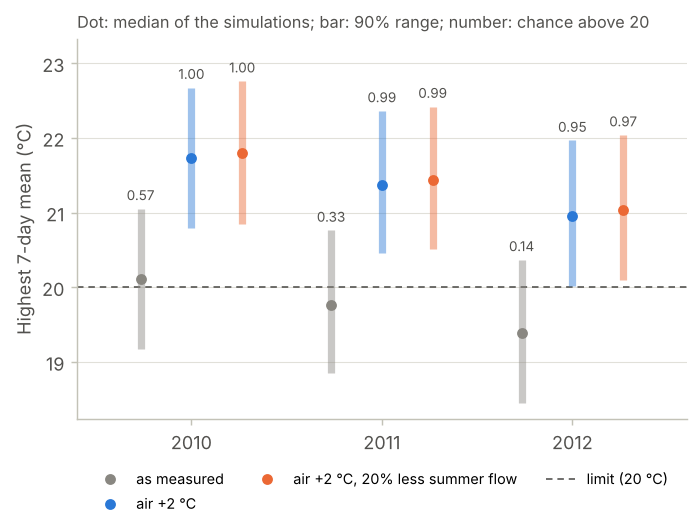
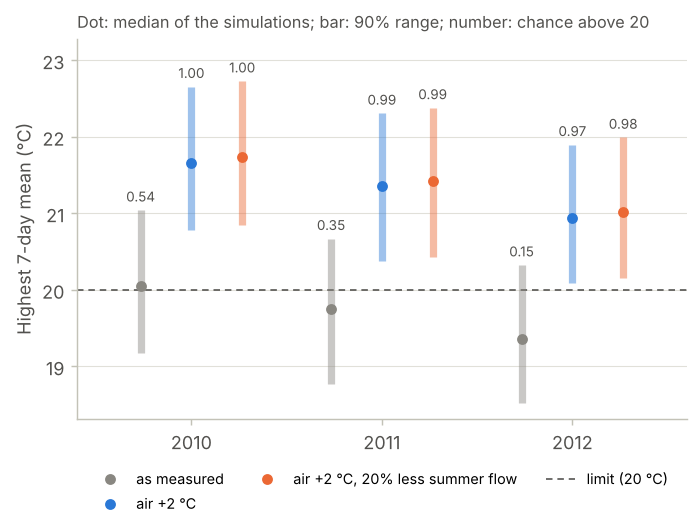
Example 08 rerun on 0.5.1: update figures and quoted numbers
Claude-Session: https://claude.ai/code/session_011cntwns3xnAFTLc6o2maxn

diff --git a/examples/08_climate/README.md b/examples/08_climate/README.md
@@ -78,11 +78,11 @@ The change, simulation by simulation (scenario minus baseline):
 
 | Scenario | Change in | Median | 90% range |
 |---|---|---|---|
-| air +2 °C | summer (Jun–Aug) mean | +1.52 °C | +1.49 to +1.56 °C |
-| air +2 °C | winter (Dec–Feb) mean | +1.05 °C | +0.99 to +1.10 °C |
-| air +2 °C | whole-year mean | +1.36 °C | +1.32 to +1.40 °C |
-| air +2 °C, 20% less summer flow | summer (Jun–Aug) mean | +1.58 °C | +1.54 to +1.63 °C |
-| air +2 °C, 20% less summer flow | winter (Dec–Feb) mean | +1.05 °C | +0.99 to +1.10 °C |
+| air +2 °C | summer (Jun–Aug) mean | +1.52 °C | +1.48 to +1.56 °C |
+| air +2 °C | winter (Dec–Feb) mean | +1.02 °C | +0.96 to +1.08 °C |
+| air +2 °C | whole-year mean | +1.35 °C | +1.31 to +1.40 °C |
+| air +2 °C, 20% less summer flow | summer (Jun–Aug) mean | +1.58 °C | +1.54 to +1.62 °C |
+| air +2 °C, 20% less summer flow | winter (Dec–Feb) mean | +1.02 °C | +0.96 to +1.08 °C |
 
 ![Monthly mean change in water temperature for both scenarios](figures/monthly_change.png)
 
@@ -113,9 +113,9 @@ all three runs.
 
 | Year | P(7-day mean > 20 °C): as measured | air +2 °C | air +2 °C, less summer flow | Days above 18 °C: as measured | air +2 °C | air +2 °C, less summer flow |
 |---|---|---|---|---|---|---|
-| 2010 | 0.57 | 1.00 | 1.00 | 30 (22 to 38) | 50 (42 to 59) | 51 (43 to 60) |
-| 2011 | 0.33 | 0.99 | 0.99 | 18 (11 to 27) | 41 (33 to 49) | 41 (33 to 50) |
-| 2012 | 0.14 | 0.95 | 0.97 | 24 (15 to 33) | 56 (43 to 70) | 59 (45 to 72) |
+| 2010 | 0.54 | 1.00 | 1.00 | 30 (23 to 37) | 50 (42 to 59) | 51 (43 to 59) |
+| 2011 | 0.35 | 0.99 | 0.99 | 18 (11 to 27) | 41 (32 to 50) | 42 (33 to 50) |
+| 2012 | 0.15 | 0.97 | 0.98 | 24 (15 to 34) | 57 (45 to 69) | 59 (46 to 71) |
 
 *Days above 18 °C: median, with the 90% range in brackets.*
 
@@ -127,10 +127,10 @@ orange: the two scenarios. The number above each bar is the share of the
 simulations above the 20 °C limit (dashed). Drawn with
 `plots.yearly_statistic`.*
 
-**Reading it.** The year's highest 7-day mean rises by 1.6 °C (90% range 1.56 to
+**Reading it.** The year's highest 7-day mean rises by 1.6 °C (90% range 1.55 to
 1.65 °C). In 2010–2012, a 20 °C limit was exceeded in one year of three (P =
-0.14 to 0.57). With 2 °C warmer air, it would be exceeded almost every year (P =
-0.95 to 1.00). The number of days above 18 °C would roughly double.
+0.15 to 0.54). With 2 °C warmer air, it would be exceeded almost every year (P =
+0.97 to 1.00). The number of days above 18 °C would roughly double.
 
 ## Climate-model data
 
@@ -164,7 +164,7 @@ change:
 - **Stay near the calibrated conditions.** Check how far the scenario goes
   beyond the calibration years (step 1). Discharge outside the calibrated range
   gives a warning.
-- **What it does not mean.** "P = 0.95 to 1.00" is the probability under this
+- **What it does not mean.** "P = 0.97 to 1.00" is the probability under this
   delta change and this model, with the error the model had in 2002–2009. It
   is not a forecast of the future climate.
 
